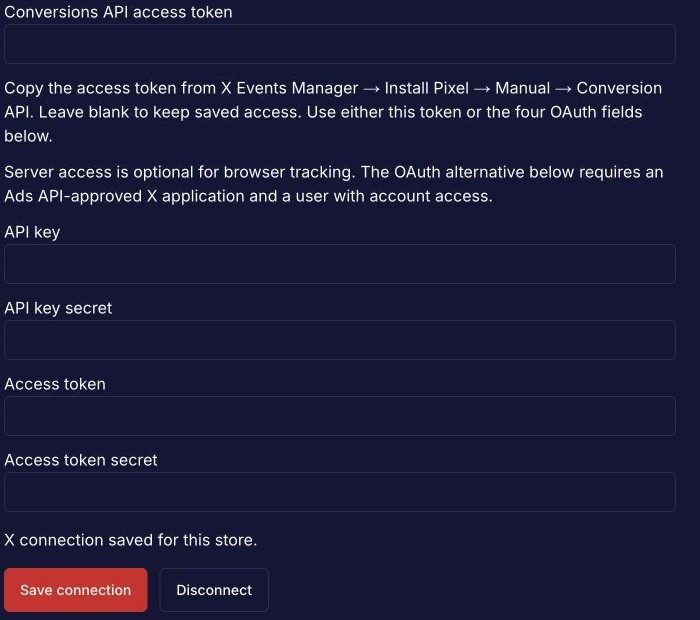
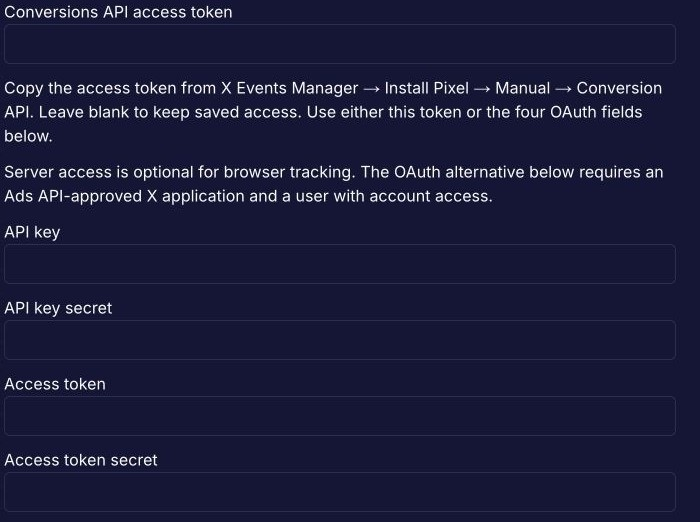
fix: align ad guide screenshots with current settings

diff --git a/apps/web/src/components/analytics/ad-platform-setup-guide.test.tsx b/apps/web/src/components/analytics/ad-platform-setup-guide.test.tsx
@@ -11,11 +11,11 @@ const pinnedAssetDigests: Record<string, string> = {
   '/guides/ad-platforms/meta-settings.jpg':
[1 lines of base64/hex data omitted]
   '/guides/ad-platforms/tiktok-settings.jpg':
[2 lines of base64/hex data omitted]
   '/guides/ad-platforms/snapchat-pixel-settings.jpg':
[1 lines of base64/hex data omitted]
   '/guides/ad-platforms/x-connection-settings.jpg':
[2 lines of base64/hex data omitted]
 };
 const webRoot = resolve(__dirname, '../../../');
 const checklistPath = resolve(
@@ -74,7 +74,7 @@ describe('AdPlatformSetupGuide', () => {
         'Meta Pixel and Conversions API settings in Baci with identifiers masked',
       ],
       tiktok: [
-        'TikTok Pixel and Access Token settings in Baci; the Pixel ID is masked and the token value is not shown',
+        'TikTok Pixel ID and Access Token fields in Baci; the Pixel ID and saved-token status are masked',
       ],
       snapchat: [
         'Snapchat Pixel and optional Conversions API token fields in Baci; the Pixel ID is masked and the token field is empty',
@@ -129,6 +129,10 @@ describe('AdPlatformSetupGuide', () => {
     const checklist = readFileSync(checklistPath, 'utf8');
     expect(checklist).toMatch(
       /do not determine whether an\s+image is private/i
+    );
+    expect(checklist).toContain('no store domain is shown.');
+    expect(checklist).toMatch(
+      /no\s+save\/disconnect controls or saved-connection state/
     );
     for (const imagePath of Object.keys(pinnedAssetDigests)) {
       expect(checklist).toContain(imagePath.split('/').at(-1));

diff --git a/apps/web/src/components/analytics/ad-platform-setup-guide.tsx b/apps/web/src/components/analytics/ad-platform-setup-guide.tsx
@@ -52,9 +52,9 @@ const guides: Record<AdPlatform, Guide> = {
     screenshots: [
       {
         src: '/guides/ad-platforms/tiktok-settings.jpg',
-        alt: 'TikTok Pixel and Access Token settings in Baci; the Pixel ID is masked and the token value is not shown',
+        alt: 'TikTok Pixel ID and Access Token fields in Baci; the Pixel ID and saved-token status are masked',
         width: 1124,
-        height: 367,
+        height: 250,
       },
     ],
     steps: [
@@ -92,7 +92,7 @@ const guides: Record<AdPlatform, Guide> = {
         src: '/guides/ad-platforms/x-connection-settings.jpg',
         alt: 'X screenshot of the optional server credential fields in Baci; all input values are blank',
         width: 700,
-        height: 620,
+        height: 522,
       },
     ],
     steps: [
@@ -137,8 +137,8 @@ export function AdPlatformSetupGuide({ platform }: { platform: AdPlatform }) {
             <p className="text-sm text-muted-foreground">
               These genuine settings screens have account identifiers and
               credential values masked. Enter values from your own provider
-              account; never copy credentials from an image. Generic saved
-              status text may remain visible, but no credential value does.
+              account; never copy credentials from an image. Saved-credential
+              indicators are omitted from these screenshots.
             </p>
             {platform === 'x' ? (
               <p className="text-sm text-muted-foreground">

diff --git a/docs/guides/ad-tracking-screenshot-review.md b/docs/guides/ad-tracking-screenshot-review.md
@@ -7,15 +7,16 @@ checklist aligned with the images used by the merchant guides.
 
 ## Baci provider settings
 
-- [ ] `meta-settings.jpg`: Pixel ID, store domain, and token state are masked.
-- [ ] `tiktok-settings.jpg`: Pixel ID is masked; the token field shows only the
-      generic saved-value notice, no token value; the full fields and Save
-      Changes control are visible.
-- [ ] `snapchat-pixel-settings.jpg`: store domain and Pixel ID are masked; the
-      optional token field is empty.
+- [ ] `meta-settings.jpg`: Pixel ID and Conversions API token fields are blank
+      or masked; no store domain is shown.
+- [ ] `tiktok-settings.jpg`: Pixel ID and saved-token status are masked; the
+      crop contains only the complete Pixel ID and Access Token fields, with no
+      save/disconnect controls or saved-connection state.
+- [ ] `snapchat-pixel-settings.jpg`: Pixel ID is masked and the optional token
+      field is empty; no store domain is shown.
 - [ ] `x-connection-settings.jpg`: no account identity or Pixel ID is shown;
-      credential fields are blank and the crop begins at a complete field label
-      without clipping any text or form controls.
+      credential fields are blank and the crop ends after the complete fields,
+      before any saved-connection state or buttons.
 
 ## ChatGPT Ads provider screens
 
